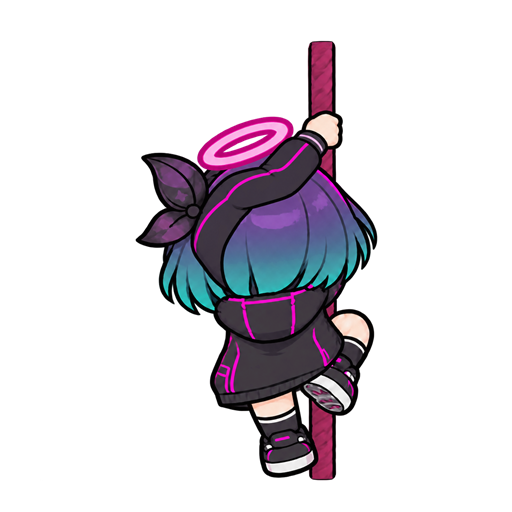
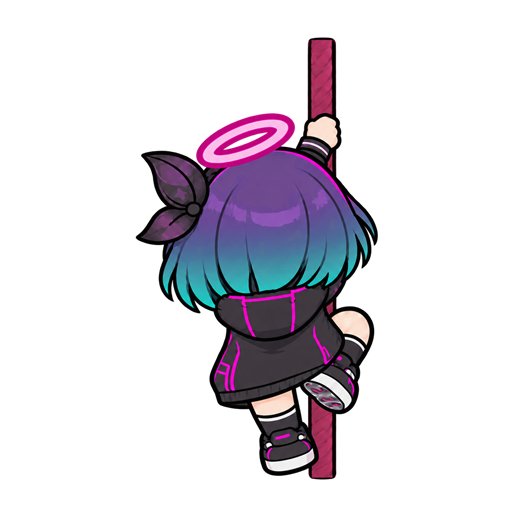
fix: refresh visual scene and align pet footing

Changed region(s): [[0.25, 0.0625, 0.75, 0.9375]]

diff --git a/src/Bolttagu.Platform.Windows/ForegroundVisualGeometryScanner.cs b/src/Bolttagu.Platform.Windows/ForegroundVisualGeometryScanner.cs
@@ -50,7 +50,8 @@ public sealed class VisualGeometrySnapshotTracker : IVisualGeometrySnapshotSourc
         long captureScopeId,
         DateTimeOffset capturedAt,
         IReadOnlyList<VisualGeometry>? geometry,
-        VisualCollisionMask? collisionMask = null)
+        VisualCollisionMask? collisionMask = null,
+        bool preserveSingleMiss = true)
     {
         lock (_gate)
         {
@@ -69,7 +70,7 @@ public sealed class VisualGeometrySnapshotTracker : IVisualGeometrySnapshotSourc
             }
 
             _consecutiveMisses++;
-            if (_consecutiveMisses < 2 && _latest is not null) return;
+            if (preserveSingleMiss && _consecutiveMisses < 2 && _latest is not null) return;
             _latest = geometry is null ? null : new(captureScopeId, capturedAt, geometry, collisionMask);
         }
     }
@@ -93,6 +94,7 @@ public sealed class VisualGeometryScanner : IVisualGeometrySnapshotSource, IDisp
     private readonly VisualGeometryDetector _detector;
     private readonly VisualGeometrySnapshotTracker _tracker = new();
     private readonly VisualScanScheduler _scheduler = new(ScanInterval);
+    private readonly VisualSceneChangeDetector _sceneChangeDetector = new();
     private readonly TimeProvider _timeProvider;
     private readonly System.Threading.Timer _timer;
     private bool _disposed;
@@ -127,8 +129,9 @@ public sealed class VisualGeometryScanner : IVisualGeometrySnapshotSource, IDisp
         {
             var result = _capture.Capture(now);
             var analysis = result.Frame is { } frame ? _detector.Analyze(frame) : null;
+            var sceneChanged = result.Frame is { } capturedFrame && _sceneChangeDetector.Observe(capturedFrame);
             var geometry = analysis?.Geometry;
-            if (result.Frame is { Exclusions.Count: > 0 } occludedFrame && geometry is not null)
+            if (!sceneChanged && result.Frame is { Exclusions.Count: > 0 } occludedFrame && geometry is not null)
             {
                 geometry = VisualGeometryOcclusionMerger.Merge(
                     geometry,
@@ -139,7 +142,8 @@ public sealed class VisualGeometryScanner : IVisualGeometrySnapshotSource, IDisp
                 result.CaptureScopeId,
                 _timeProvider.GetUtcNow(),
                 geometry,
-                analysis?.CollisionMask);
+                analysis?.CollisionMask,
+                preserveSingleMiss: !sceneChanged);
         }
         catch (Exception exception) when (exception is ExternalException or InvalidOperationException or ArgumentException)
         {
@@ -156,6 +160,68 @@ public sealed class VisualGeometryScanner : IVisualGeometrySnapshotSource, IDisp
         _disposed = true;
         _timer.Dispose();
     }
+}
+
+public sealed class VisualSceneChangeDetector
+{
+    private const int SampleStep = 8;
+    private const int LuminanceDelta = 36;
+    private const double ChangedSampleRatio = 0.12;
+    private SceneSample? _previous;
+
+    public bool Observe(CapturedWindowFrame frame)
+    {
+        var current = Sample(frame);
+        var previous = _previous;
+        _previous = current;
+        if (previous is null) return false;
+        if (previous.CaptureScopeId != current.CaptureScopeId ||
+            previous.Width != current.Width || previous.Height != current.Height) return true;
+
+        var compared = 0;
+        var changed = 0;
+        for (var index = 0; index < current.Luminance.Length; index++)
+        {
+            if (!current.Valid[index] || !previous.Valid[index]) continue;
+            compared++;
+            if (Math.Abs(current.Luminance[index] - previous.Luminance[index]) >= LuminanceDelta) changed++;
+        }
+        return compared > 0 && changed / (double)compared >= ChangedSampleRatio;
+    }
+
+    private static SceneSample Sample(CapturedWindowFrame frame)
+    {
+        var columns = (frame.Width + SampleStep - 1) / SampleStep;
+        var rows = (frame.Height + SampleStep - 1) / SampleStep;
+        var luminance = new byte[columns * rows];
+        var valid = new bool[luminance.Length];
+        var index = 0;
+        for (var y = 0; y < frame.Height; y += SampleStep)
+        {
+            for (var x = 0; x < frame.Width; x += SampleStep)
+            {
+                if (frame.Exclusions?.Any(area =>
+                        x >= area.Left && x < area.Right && y >= area.Top && y < area.Bottom) == true)
+                {
+                    index++;
+                    continue;
+                }
+                var source = y * frame.Stride + x * 4;
+                luminance[index] = (byte)((frame.Bgra32[source + 2] * 77 +
+                    frame.Bgra32[source + 1] * 150 + frame.Bgra32[source] * 29) >> 8);
+                valid[index] = true;
+                index++;
+            }
+        }
+        return new(frame.CaptureScopeId, frame.Width, frame.Height, luminance, valid);
+    }
+
+    private sealed record SceneSample(
+        long CaptureScopeId,
+        int Width,
+        int Height,
+        byte[] Luminance,
+        bool[] Valid);
 }
 
 public static class VisualGeometryOcclusionMerger

diff --git a/src/Bolttagu.Presentation/PetSpriteView.cs b/src/Bolttagu.Presentation/PetSpriteView.cs
@@ -10,6 +10,9 @@ namespace Bolttagu.Presentation;
 
 public sealed class PetSpriteView : UserControl, IAnimationPlayer, IAnimationFrameSource
 {
+    public const double SpriteWidthDip = 220;
+    public const double SpriteCanvasHeightDip = 220;
+    public const double FootAlignedHeightDip = SpriteCanvasHeightDip * 480d / 512d;
     private readonly IAnimationCatalog _catalog;
     private readonly Image _image;
     private readonly DispatcherTimer _timer;
@@ -21,15 +24,18 @@ public sealed class PetSpriteView : UserControl, IAnimationPlayer, IAnimationFra
     public PetSpriteView(IAnimationCatalog catalog)
     {
         _catalog = catalog ?? throw new ArgumentNullException(nameof(catalog));
-        Width = 220;
-        Height = 220;
+        Width = SpriteWidthDip;
+        Height = FootAlignedHeightDip;
+        ClipToBounds = true;
         SnapsToDevicePixels = true;
 
         _image = new Image
         {
+            Width = SpriteWidthDip,
+            Height = SpriteCanvasHeightDip,
             Stretch = Stretch.Uniform,
-            HorizontalAlignment = HorizontalAlignment.Stretch,
-            VerticalAlignment = VerticalAlignment.Stretch,
+            HorizontalAlignment = HorizontalAlignment.Left,
+            VerticalAlignment = VerticalAlignment.Top,
             SnapsToDevicePixels = true
         };
         RenderOptions.SetBitmapScalingMode(_image, BitmapScalingMode.HighQuality);
@@ -126,8 +132,8 @@ public sealed class PetSpriteView : UserControl, IAnimationPlayer, IAnimationFra
         var atlas = GetAtlas(frame.AtlasPath);
         var rect = frame.SourceRect;
         _image.Source = new CroppedBitmap(atlas, new Int32Rect(rect.X, rect.Y, rect.Width, rect.Height));
-        var viewWidth = double.IsNaN(ActualWidth) || ActualWidth <= 0 ? Width : ActualWidth;
-        var viewHeight = double.IsNaN(ActualHeight) || ActualHeight <= 0 ? Height : ActualHeight;
+        var viewWidth = SpriteWidthDip;
+        var viewHeight = SpriteCanvasHeightDip;
         var scale = Math.Min(viewWidth / rect.Width, viewHeight / rect.Height);
         var offsetX = (viewWidth - rect.Width * scale) / 2d;
         var offsetY = (viewHeight - rect.Height * scale) / 2d;

diff --git a/tests/Bolttagu.Architecture.Tests/VisualGeometryDetectorTests.cs b/tests/Bolttagu.Architecture.Tests/VisualGeometryDetectorTests.cs
@@ -96,6 +96,24 @@ public sealed class VisualGeometryDetectorTests
     }
 
     [TestMethod]
+    public void SceneChangeDetector_RefreshesOnLargeVisibleContentChangeButIgnoresPetExclusion()
+    {
+        var detector = new VisualSceneChangeDetector();
+        var white = new CapturedWindowFrame(42, DateTimeOffset.UnixEpoch, new(0, 0), 1,
+            240, 180, 240 * 4, WhiteFrame(240, 180), [new(0, 0, 40, 40)]);
+        var excludedPixels = WhiteFrame(240, 180);
+        DrawBlackRectangle(excludedPixels, 240, 0, 0, 40, 40);
+        var excludedOnly = white with { Bgra32 = excludedPixels };
+        var changedPixels = WhiteFrame(240, 180);
+        DrawBlackRectangle(changedPixels, 240, 0, 0, 240, 180);
+        var black = white with { Bgra32 = changedPixels };
+
+        Assert.IsFalse(detector.Observe(white));
+        Assert.IsFalse(detector.Observe(excludedOnly));
+        Assert.IsTrue(detector.Observe(black));
+    }
+
+    [TestMethod]
     public void SnapshotTracker_UsesOneMissGraceThenInvalidatesAndRejectsStaleData()
     {
         var tracker = new VisualGeometrySnapshotTracker();

diff --git a/tests/Bolttagu.Presentation.Tests/AnimationPlaybackTests.cs b/tests/Bolttagu.Presentation.Tests/AnimationPlaybackTests.cs
@@ -30,7 +30,10 @@ public sealed class AnimationPlaybackTests
                 using var placeholder = new PetPlaceholderView();
 
                 Assert.IsInstanceOfType<Image>(sprite.Content);
+                Assert.AreEqual(206.25, sprite.Height, 0.001,
+                    "The view must end at the atlas foot pivot instead of retaining the old label strip.");
                 var fallbackCanvas = Assert.IsInstanceOfType<Canvas>(placeholder.Content);
+                Assert.AreEqual(sprite.Height, placeholder.Height, 0.001);
                 Assert.IsFalse(fallbackCanvas.Children.OfType<TextBlock>()
                     .Any(text => text.Text.Contains("DPI", StringComparison.Ordinal)));
             }

diff --git a/tests/Bolttagu.Architecture.Tests/OverlayWindowSmokeTests.cs b/tests/Bolttagu.Architecture.Tests/OverlayWindowSmokeTests.cs
@@ -47,8 +47,10 @@ public sealed class OverlayWindowSmokeTests
         {
             try
             {
-                var content = new Border();
+                var content = new Border { Width = 180, Height = 190 };
                 var window = new OverlayWindow(content);
+                Assert.AreEqual(180, window.Width);
+                Assert.AreEqual(190, window.Height);
                 window.SetDiagnosticStatus("Bolttagu P3 · 150% DPI · atlas");
                 var item = Assert.IsInstanceOfType<MenuItem>(window.ContextMenu!.Items[0]);
                 Assert.AreEqual("Bolttagu P3 · 150% DPI · atlas", item.Header);

diff --git a/src/Bolttagu.Platform.Windows/OverlayWindow.cs b/src/Bolttagu.Platform.Windows/OverlayWindow.cs
@@ -21,8 +21,12 @@ public sealed class OverlayWindow : Window, IOverlayWindow
     public OverlayWindow(UIElement content)
     {
         Title = "Bolttagu Desktop Pet";
-        Width = 220;
-        Height = 220;
+        Width = content is FrameworkElement { Width: > 0 } elementWidth
+            ? elementWidth.Width
+            : 220;
+        Height = content is FrameworkElement { Height: > 0 } elementHeight
+            ? elementHeight.Height
+            : 220;
         WindowStyle = WindowStyle.None;
         ResizeMode = ResizeMode.NoResize;
         AllowsTransparency = true;

diff --git a/src/Bolttagu.Presentation/PetPlaceholderView.cs b/src/Bolttagu.Presentation/PetPlaceholderView.cs
@@ -13,8 +13,9 @@ public sealed class PetPlaceholderView : UserControl, IAnimationPlayer
 
     public PetPlaceholderView()
     {
-        Width = 220;
-        Height = 220;
+        Width = PetSpriteView.SpriteWidthDip;
+        Height = PetSpriteView.FootAlignedHeightDip;
+        ClipToBounds = true;
         RenderTransformOrigin = new Point(0.5, 0.82);
         RenderTransform = _scale;
         var canvas = new Canvas { Width = 220, Height = 220, Background = Brushes.Transparent };

diff --git a/docs/design/0010-visual-text-surfaces.md b/docs/design/0010-visual-text-surfaces.md
@@ -42,14 +42,14 @@ created: 2026-09-21
 |---|---|---|
 | AC-1 | pet이 위치한 monitor의 visible composite에서 글자형 component가 3개 이상 같은 행으로 묶이면 그 union의 top과 좌우 끝을 `TextLine` support로 제공한다. focus를 다른 창으로 옮겨도 화면에 보이는 동일 문장은 유지하며, pet 중심이 문장 끝을 벗어나면 Falling으로 전이한다. | 합성 frame detector/selector 테스트, 서로 다른 두 visible window fixture, focus 전환 전후 동일 geometry smoke와 문장 끝 runtime trace를 검증한다. |
 | AC-2 | 같은 monitor-visible composite에서 폭 8 DIP 이하, 높이 96 DIP 이상인 연속 수직 span을 `VerticalLine` climb anchor로 제공한다. 보행 leading edge가 처음 만난 visual line은 확률 판정 없이 기존 rope climb sequence를 시작한다. | 좌·우 접근, 동일 line 1회 encounter, focus와 무관한 anchor 유지, top support 유무를 synthetic geometry 및 runtime trace로 검증한다. |
-| AC-3 | focus HWND 변경은 visual geometry를 무효화하지 않는다. pet이 다른 monitor로 이동하거나 geometry가 두 번 연속 scan에서 사라질 때만 support/anchor를 갱신하고, 한 번의 누락은 직전 snapshot을 유지한다. | fake display id와 scan sequence로 focus-independent 유지, display 변경, grace 1회, 2회째 invalidation, stale rejection을 검증한다. |
+| AC-3 | focus HWND 변경은 visual geometry를 무효화하지 않는다. pet이 다른 monitor로 이동하거나 visible scene 표본의 12% 이상이 바뀌면 즉시 새 snapshot으로 교체한다. 같은 scene의 일시적 누락만 직전 snapshot을 1회 유지한다. | fake display id와 scan sequence로 focus-independent 유지, display·scene 변경, grace 1회, stale rejection을 검증한다. |
 | AC-4 | monitor 캡처·geometry 분석은 UI thread 밖에서 2 Hz, single-flight, 25% linear scale로 실행하며 runtime의 33 ms Tick은 마지막 immutable snapshot만 읽는다. 결과는 분석 완료 시각에 게시하고 같은 display scope에서 최대 3초까지 사용한다. | scheduler 단위 테스트에서 동시 작업 최대 1개, 최소 500 ms 간격, 고해상도 scan 간 snapshot 유지와 stale rejection을 검증한다. |
 | AC-5 | rope/free climb frame의 hand/foot contact metadata가 활성화될 때 pet 뒤·visible desktop 앞의 click-through VFX layer에 12~24 DIP 주름을 만든다. 접점 해제 후 300 ms 안에 fade를 시작하고 600 ms 안에 제거하며, 동시에 16개를 넘지 않는다. | pack/catalog metadata 테스트, presentation tracker fake-clock 테스트, 실제 climb 녹화의 stacking·fade 육안 검수로 확인한다. |
 | AC-6 | fall, drag, hide, display 변경, exit 및 dispose는 visual support/anchor와 모든 contact VFX를 정리하며 VFX window는 포커스·pointer hit-test를 가져가지 않는다. | runtime interrupt trace, WPF window style smoke test, 종료 후 VFX item 0개 검증으로 확인한다. |
 | AC-7 | 앱 시작 시 pet은 work-area 상단에서 Falling으로 진입하고, display-visible geometry를 아래로 sweep해 처음 만난 local support에 착지한다. 걷는 중 foot probe가 support run 끝을 벗어나면 다시 Falling으로 전이한다. | spawn→fall→land, drag→fall→land, walk→edge→fall runtime trace를 검증한다. |
-| AC-8 | `BOLTTAGU_VISUAL_DEBUG=1`에서만 scanner geometry·probe·선택 surface를 click-through VFX layer에 표시하고 일반 실행에서는 시안·마젠타·빨간·금색 보조선을 모두 표시하지 않는다. `P3 · DPI` 진단 문구는 pet canvas에서 제거해 그림의 발바닥과 물리 바닥을 일치시키고 비활성 context-menu 항목으로만 제공한다. | 환경 변수 on/off WPF smoke, context-menu status 검사, sprite view에 진단 `TextBlock`이 없고 foot baseline이 view bottom과 일치하는 육안 검증으로 확인한다. |
+| AC-8 | `BOLTTAGU_VISUAL_DEBUG=1`에서만 scanner geometry·probe·선택 surface를 click-through VFX layer에 표시하고 일반 실행에서는 시안·마젠타·빨간·금색 보조선을 모두 표시하지 않는다. `P3 · DPI` 진단 문구는 context menu로 옮기고 sprite canvas를 atlas foot pivot(480/512)에서 crop해 발바닥과 물리 바닥을 일치시킨다. | 환경 변수 on/off WPF smoke, context-menu status 검사, view height 206.25 DIP 및 진단 `TextBlock` 부재를 검증한다. |
 | AC-9 | 큰 제목과 작은 본문은 글자 크기와 무관하게 같은 baseline의 bounded `TextLine`으로, 폭 96 DIP 이상의 얇은 수평선은 `HorizontalLine` support로, 높이 96 DIP 이상의 얇은 수직선은 `VerticalLine` anchor로 구분한다. | 사용자 예시를 축약한 synthetic frame에서 세 종류를 동시에 검출하고 surface kind mapping을 검증한다. |
-| AC-10 | rope climb loop는 후면 시점에서 왼손과 오른손이 프레임마다 번갈아 줄을 잡는 실루엣을 보여주며, contact metadata도 같은 손 위치를 따른다. | 4-frame contact sheet 육안 검수, pack/catalog frame contact 좌표 테스트, 실제 loop 재생 검수로 확인한다. |
+| AC-10 | rope climb loop는 후면 시점에서 손 동작이 교대하되, 교차하는 팔은 머리카락 뒤에 가려지고 손목·손만 줄 쪽으로 나와야 한다. contact metadata도 같은 손 위치를 따른다. | 4-frame contact sheet의 arm/head occlusion 육안 검수, pack/catalog frame contact 좌표 테스트, 실제 loop 재생 검수로 확인한다. |
 | AC-11 | free climb은 prepare 완료 후 매 tick 이동한 구간만 surface intercept 검사하며, 아직 도달하지 않은 목적지로 즉시 이동하지 않는다. pet overlay에 가려진 기존 visual surface는 해당 영역이 다시 드러날 때까지 직전 snapshot geometry를 유지한다. | 단계별 clock runtime test와 occlusion merge 단위 테스트로 중간 위치·도달 시점·가려진 발판 보존을 검증한다. |
 
 ## 3. 확정 사실 (Findings)
@@ -185,3 +185,4 @@ stateDiagram-v2
 - [x] 11. rope loop 1·3의 손 grip을 반대편으로 수정하고 artwork와 contact metadata를 asset test 및 contact sheet로 검증했다. (AC-5, AC-10)
 - [x] 12. pet canvas의 발밑 진단 라벨을 제거하고 context menu로 옮겼으며, 일반 환경 변수 없이 앱을 실행해 geometry debug timer가 생성되지 않는 경로를 검증했다. (AC-8)
 - [x] 13. pet exclusion 뒤의 기존 geometry를 보존하고, free climb intercept를 전체 목적 구간이 아니라 실제 tick 이동 구간으로 제한했다. (AC-7, AC-11)
+- [x] 14. atlas foot pivot 기준으로 하단 13.75 DIP를 crop하고 overlay 물리 높이를 206.25 DIP로 맞췄다. visible scene 대변경은 occlusion carry와 miss grace를 즉시 끊고, rope 홀수 frame의 팔을 머리 뒤로 재합성했다. (AC-3, AC-8, AC-10)
